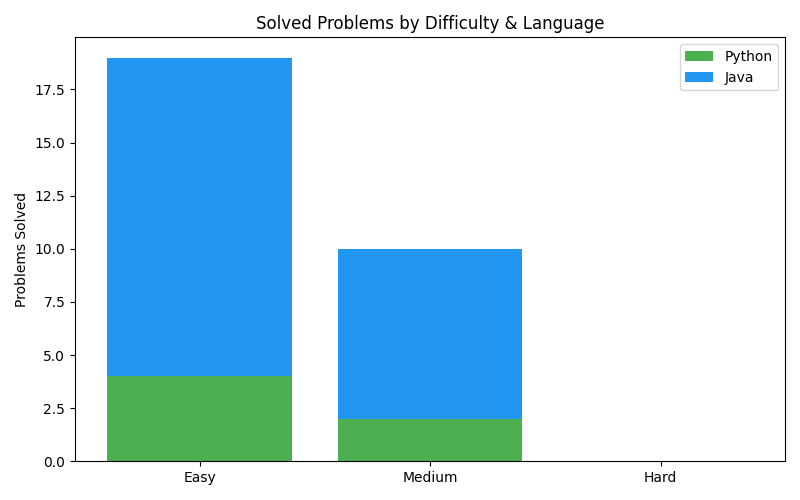
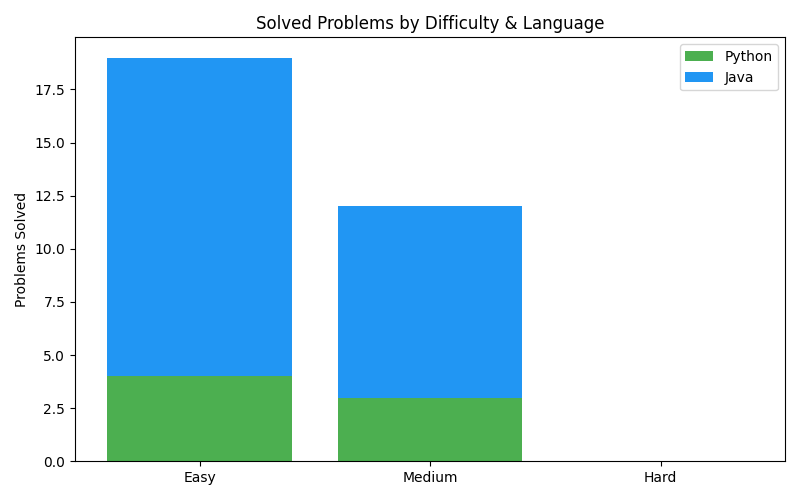
Binary-tree-right-side-view

Changed region(s): [[0.4062, 0.39, 0.6562, 0.51], [0.4062, 0.78, 0.6562, 0.84]]

diff --git a/medium/199-binary-tree-right-side-view/solution/Solution.java b/medium/199-binary-tree-right-side-view/solution/Solution.java
@@ -1,0 +1,38 @@
+/**
+ * Definition for a binary tree node.
+ * public class TreeNode {
+ *     int val;
+ *     TreeNode left;
+ *     TreeNode right;
+ *     TreeNode() {}
+ *     TreeNode(int val) { this.val = val; }
+ *     TreeNode(int val, TreeNode left, TreeNode right) {
+ *         this.val = val;
+ *         this.left = left;
+ *         this.right = right;
+ *     }
+ * }
+ */
+import java.util.*;
+
+class Solution {
+    public List<Integer> rightSideView(TreeNode root) {
+        List<Integer> result = new ArrayList<>();
+        ArrayDeque<TreeNode> q = new ArrayDeque<>();
+        if(root != null) q.add(root);
+
+        while(!q.isEmpty()){
+            TreeNode right = null;
+            int levelLength = q.size();
+            for(int i = 0; i < levelLength; i++){
+                TreeNode curr = q.removeFirst();
+                right = curr;
+                
+                if(curr.left!= null) q.add(curr.left);
+                if(curr.right!= null) q.add(curr.right);
+            }
+            if(right != null) result.add(right.val);
+        }
+        return result;
+    }
+}

diff --git a/medium/199-binary-tree-right-side-view/solution/solution.py b/medium/199-binary-tree-right-side-view/solution/solution.py
@@ -1,0 +1,3 @@
+class Solution:
+    def method_name(self, *args):
+        pass

diff --git a/medium/199-binary-tree-right-side-view/README.md b/medium/199-binary-tree-right-side-view/README.md
@@ -1,0 +1,115 @@
+# 199. Binary Tree Right Side View
+
+**Difficulty:** Medium  
+**Link:** [https://leetcode.com/problems/binary-tree-right-side-view/](https://leetcode.com/problems/binary-tree-right-side-view/)
+
+## Problem Description
+
+Given the 
+root
+ of a binary tree, imagine yourself standing on the 
+right side
+ of it, return 
+the values of the nodes you can see ordered from top to bottom
+.
+
+
+ 
+
+
+Example 1:
+
+
+
+
+Input:
+ 
+root = [1,2,3,null,5,null,4]
+
+
+Output:
+ 
+[1,3,4]
+
+
+Explanation:
+
+
+
+
+
+
+Example 2:
+
+
+
+
+Input:
+ 
+root = [1,2,3,4,null,null,null,5]
+
+
+Output:
+ 
+[1,3,4,5]
+
+
+Explanation:
+
+
+
+
+
+
+Example 3:
+
+
+
+
+Input:
+ 
+root = [1,null,3]
+
+
+Output:
+ 
+[1,3]
+
+
+
+
+Example 4:
+
+
+
+
+Input:
+ 
+root = []
+
+
+Output:
+ 
+[]
+
+
+
+
+ 
+
+
+Constraints:
+
+
+
+
+The number of nodes in the tree is in the range 
+[0, 100]
+.
+
+
+-100 <= Node.val <= 100
+
+
+
+

diff --git a/README.md b/README.md
@@ -17,6 +17,8 @@ My solutions to LeetCode problems in Python and Java
 
 
 
+
+
 ## 📊 Problem Distribution
 ![By Difficulty and Language](assets/progress_difficulty_language.png)
 ![By Difficulty (Pie)](assets/pie_difficulty.png)
